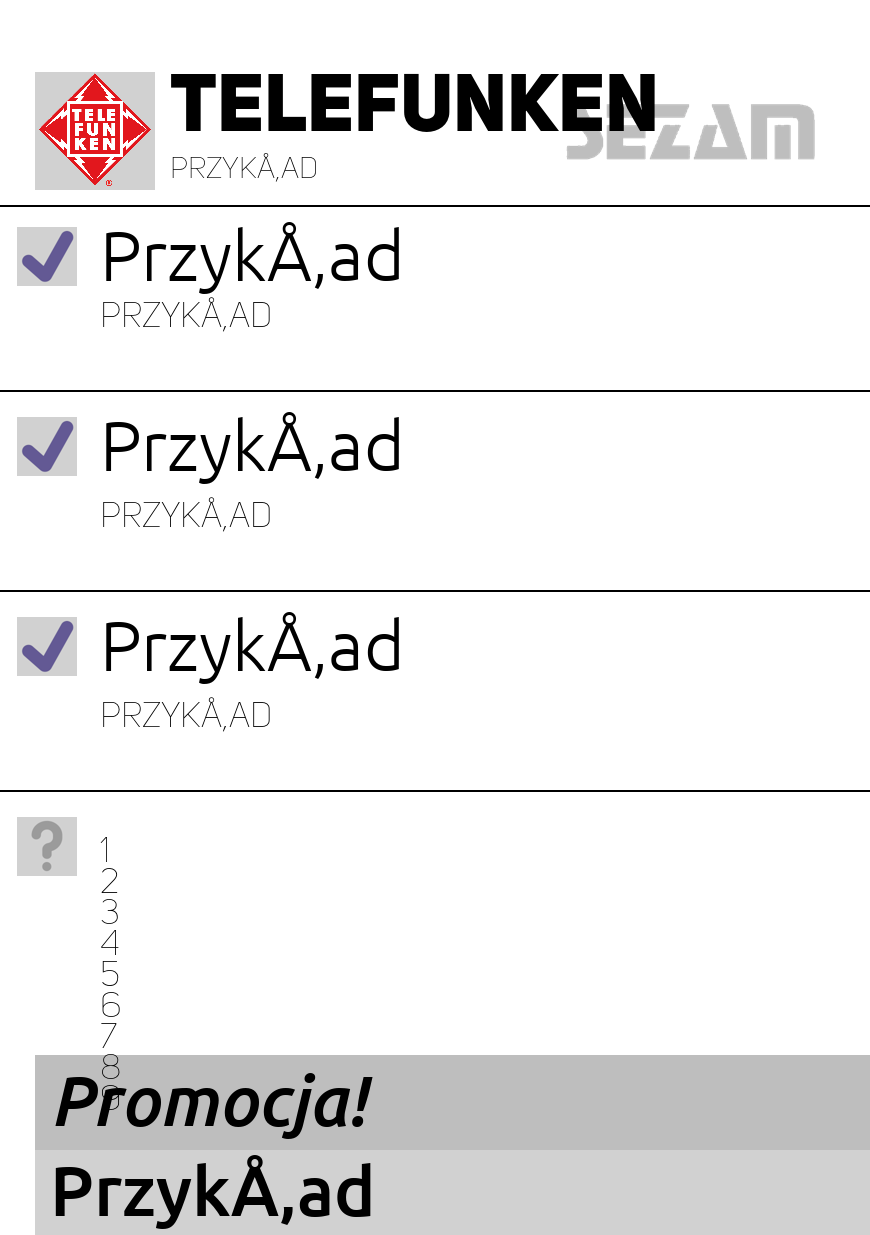
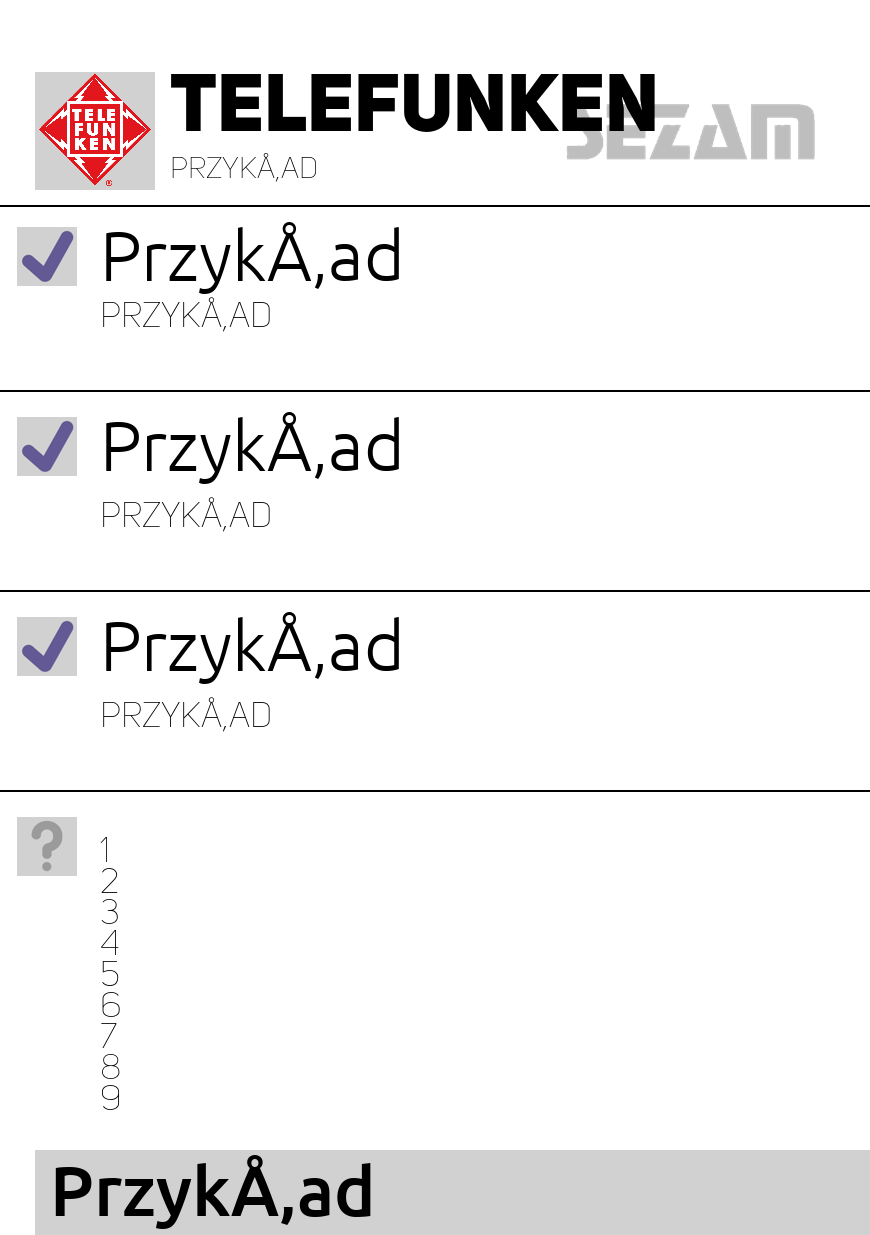
Add image listing stuff

Changed region(s): [[0.031, 0.8308, 1.0, 0.9538]]

diff --git a/gen/page_import.py b/gen/page_import.py
@@ -1,0 +1,46 @@
+from PIL import Image
+import os
+
+
+def page_for_print():
+
+    laptop_image_path = "add.png"
+    laptop_image = Image.open(laptop_image_path)
+
+
+    try:
+        a4_page = Image.open("a4_page.png")
+    except FileNotFoundError:
+        a4_page = Image.new("RGB", (2480, 3508), color="white")
+
+    # Load or initialize the counter
+    counter_file = "counter.txt"
+    if os.path.exists(counter_file):
+        with open(counter_file, "r") as f:
+            counter = int(f.read())
+    else:
+        counter = 0
+
+    # If the counter is 4, clear the page and reset the counter
+    if counter == 4:
+        a4_page = Image.new("RGB", (2480, 3508), color="white")
+        counter = 0
+
+    # Calculate the position for the new image
+    row = counter // 2
+    col = counter % 2
+    position = (50 + col * 1240, 50 + row * 1754)
+
+    # Paste the laptop image onto the A4 page
+    a4_page.paste(laptop_image, position)
+
+    # Save the updated A4 page
+    a4_page.save("a4_page.png")
+
+    # Increment the counter and save it
+    counter += 1
+    with open(counter_file, "w") as f:
+        f.write(str(counter))
+
+
+page_for_print()
